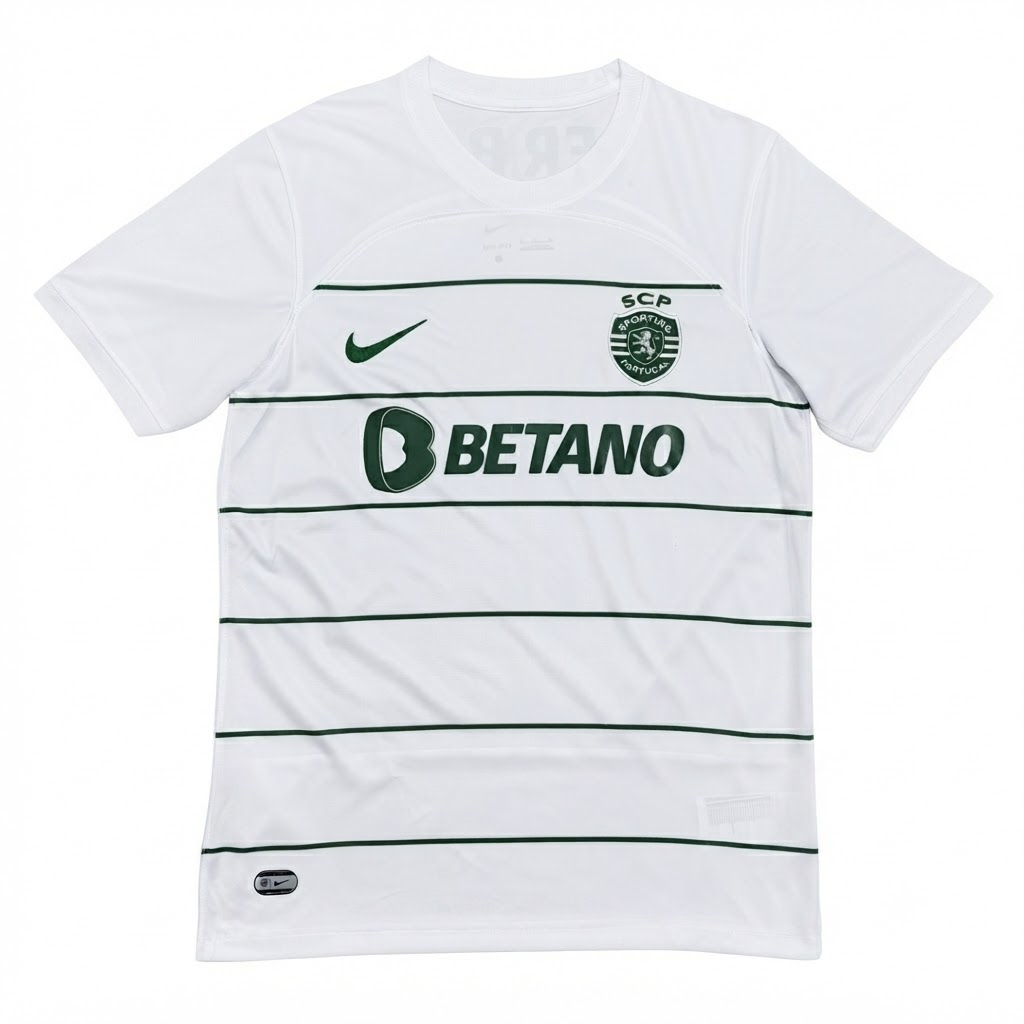
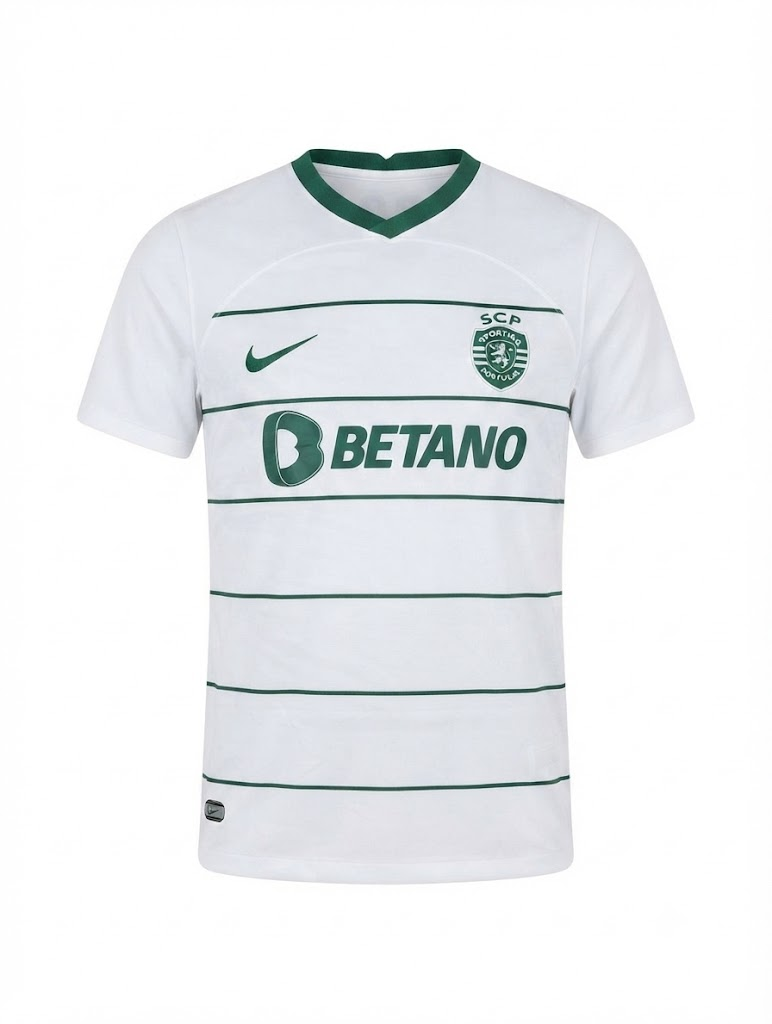
Update 5 Portuguese jersey photos, remove Unboxing section
Refreshed higher-quality Shopify photos for Azul/Vermelha de
Portugal, Diferenciada do Benfica, and both Sporting products (the
other 3 PT products' images were unchanged). Bumped cache-busting on
the updated files specifically.

Removed the "Unboxing" video section from the homepage per request.

Changed region(s): [[0.1244, 0.0625, 0.9637, 0.9375], [0.0311, 0.2188, 0.1554, 0.4062], [0.8394, 0.4062, 0.8705, 0.4375]]

diff --git a/js/data.js b/js/data.js
@@ -159,21 +159,21 @@
 
     // Seleção Portugal
     P('por-alt-24', 'selecao-portugal', 'alternativa', 'Azul de Portugal', '2024', 49.9, ['S','M','L'], 'Novo', 'disponivel', '#7fd9c4', '#0b4a41',
-      { photos: ['img/selecao-portugal-alt.png'] }),
+      { photos: ['img/selecao-portugal-alt.png?v=2'] }),
     P('por-principal-24', 'selecao-portugal', 'principal', 'Vermelha de Portugal', '2024', 52.9, ['S','M','L'], 'Novo', 'disponivel', '#a01414', '#f4f3ec',
-      { photos: ['img/selecao-portugal-principal.png'] }),
+      { photos: ['img/selecao-portugal-principal.png?v=2'] }),
 
     // Benfica
     P('ben-principal-24', 'benfica', 'principal', 'Classica do Benfica', '2024', 49.9, ['S','M','L'], 'Novo', 'disponivel', '#d4001f', '#f4f3ec',
       { photos: ['img/benfica-principal.png'] }),
     P('ben-extra-24', 'benfica', 'extra', 'Diferenciada do Benfica', '2024', 50.9, ['S','M','L'], null, 'disponivel', '#f4f3ec', '#d4001f',
-      { photos: ['img/benfica-extra.png'] }),
+      { photos: ['img/benfica-extra.png?v=2'] }),
 
     // Sporting
     P('spo-principal-24', 'sporting', 'principal', 'Classica do Sporting', '2024', 53.9, ['S','M','L'], 'Novo', 'disponivel', '#0d5c34', '#f4f3ec',
-      { photos: ['img/sporting-principal.png'] }),
+      { photos: ['img/sporting-principal.png?v=2'] }),
     P('spo-alt-24', 'sporting', 'alternativa', 'Branca do Sporting', '2024', 53.9, ['S','M','L'], null, 'disponivel', '#f4f3ec', '#0d5c34',
-      { photos: ['img/sporting-alt.png'] }),
+      { photos: ['img/sporting-alt.png?v=2'] }),
 
     // FC Porto
     P('fcp-principal-24', 'porto', 'principal', 'Classica do Porto', '2024', 52.9, ['S','M','L'], 'Novo', 'disponivel', '#0b3d91', '#f4f3ec',

diff --git a/index.html b/index.html
@@ -368,27 +368,6 @@
   </div>
 </section>
 
-<!-- ============ UNBOXING ============ -->
-<section class="section-dark" id="unboxing">
-  <div class="container">
-    <div class="section-head reveal">
-      <h2>Unboxing</h2>
-      <p class="section-sub">Vê a tua camisa a chegar, ainda dentro da caixa.</p>
-    </div>
-    <div class="about-video-grid">
-      <div class="about-video-card is-landscape reveal">
-        <video class="about-video" muted loop playsinline preload="metadata" poster="">
-          <source src="video/sobre/unboxing-1.mp4" type="video/mp4">
-        </video>
-        <div class="about-video-fallback">Vídeo em breve</div>
-        <button class="about-video-mute" type="button" aria-label="Ativar som" aria-pressed="false">
-          <svg viewBox="0 0 24 24"><path d="M4 9v6h4l5 5V4L8 9H4Z"/><path d="M17 8a5 5 0 0 1 0 8" opacity="0"/><line x1="16" y1="9" x2="21" y2="15"/><line x1="21" y1="9" x2="16" y2="15"/></svg>
-        </button>
-      </div>
-    </div>
-  </div>
-</section>
-
 <!-- ============ NEWSLETTER ============ -->
 <div class="newsletter">
   <h3>Entre para a bancada Low Wear</h3>
@@ -1179,7 +1158,7 @@
 <div id="flash-popup-root"></div>
 <div id="promo-popup-root"></div>
 
-<script src="js/data.js?v=67"></script>
+<script src="js/data.js?v=68"></script>
 <script src="js/main.js?v=49"></script>
 <script src="js/flash-offer.js?v=5"></script>
 <script src="js/promo.js?v=1"></script>

diff --git a/produto.html b/produto.html
@@ -1031,7 +1031,7 @@
 <div id="flash-popup-root"></div>
 <div id="promo-popup-root"></div>
 
-<script src="js/data.js?v=67"></script>
+<script src="js/data.js?v=68"></script>
 <script src="js/main.js?v=49"></script>
 <script src="js/flash-offer.js?v=5"></script>
 <script src="js/promo.js?v=1"></script>

diff --git a/equipa.html b/equipa.html
@@ -939,7 +939,7 @@
 <div id="flash-popup-root"></div>
 <div id="promo-popup-root"></div>
 
-<script src="js/data.js?v=67"></script>
+<script src="js/data.js?v=68"></script>
 <script src="js/main.js?v=49"></script>
 <script src="js/flash-offer.js?v=5"></script>
 <script src="js/promo.js?v=1"></script>

diff --git a/admin.html b/admin.html
@@ -77,7 +77,7 @@
   </section>
 </div>
 
-<script src="js/data.js?v=67"></script>
+<script src="js/data.js?v=68"></script>
 <script src="js/admin.js?v=7"></script>
 </body>
 </html>
